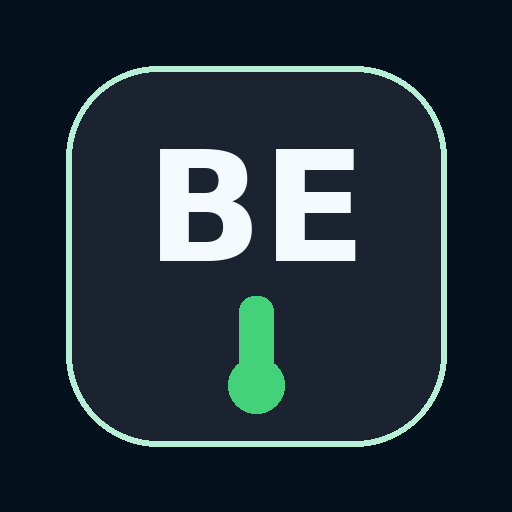
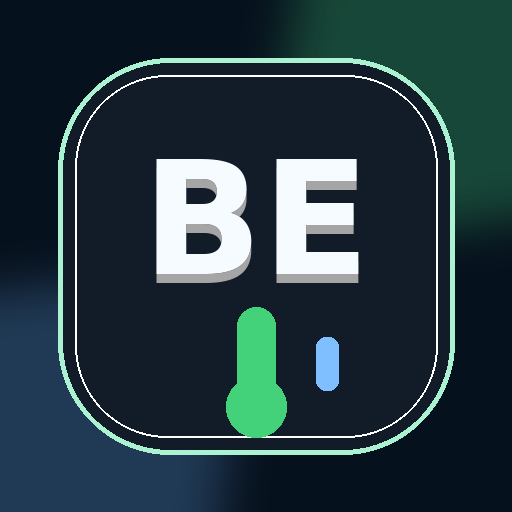
Add files via upload

diff --git a/index.html b/index.html
@@ -11,6 +11,10 @@
   <meta name="apple-mobile-web-app-title" content="Birlikte Eriyoruz" />
   <link rel="manifest" href="manifest.json" />
   <link rel="apple-touch-icon" href="icon-192.png" />
+  <link rel="icon" type="image/png" sizes="192x192" href="icon-192.png" />
+  <link rel="icon" type="image/png" sizes="512x512" href="icon-512.png" />
+  <link rel="apple-touch-icon" sizes="180x180" href="apple-touch-icon.png" />
+
 
   <style>
     * { box-sizing: border-box; }
@@ -2181,12 +2185,80 @@
       margin-bottom: 18px;
     }
 
+
+    .summary-only {
+      display: block;
+    }
+
+    body:not(.summary-active) .summary-only {
+      display: none !important;
+    }
+
+    .metric-card-grid.summary-only {
+      display: grid !important;
+      grid-template-columns: repeat(3, minmax(0, 1fr)) !important;
+      gap: 8px !important;
+      margin-bottom: 14px !important;
+    }
+
+    .metric-card-grid .premium-metric-card {
+      min-height: 112px !important;
+      padding: 12px 9px !important;
+      border-radius: 18px !important;
+    }
+
+    .metric-card-grid .metric-icon {
+      width: 34px !important;
+      height: 34px !important;
+      border-radius: 12px !important;
+      font-size: 18px !important;
+      margin-bottom: 7px !important;
+    }
+
+    .metric-card-grid .premium-metric-label {
+      font-size: 12px !important;
+      line-height: 1.15 !important;
+      margin-bottom: 6px !important;
+    }
+
+    .metric-card-grid .premium-metric-value {
+      font-size: clamp(16px, 4.8vw, 22px) !important;
+      line-height: 1.05 !important;
+      word-break: keep-all;
+    }
+
+    .summary-body-change-card {
+      margin-bottom: 18px;
+    }
+
+    .achievement-collapsible summary {
+      font-size: 20px;
+      font-weight: 900;
+      cursor: pointer;
+    }
+
+    @media (max-width: 430px) {
+      .metric-card-grid.summary-only {
+        grid-template-columns: repeat(3, minmax(0, 1fr)) !important;
+        gap: 7px !important;
+      }
+
+      .metric-card-grid .premium-metric-card {
+        min-height: 106px !important;
+        padding: 10px 7px !important;
+      }
+
+      .metric-card-grid .premium-metric-label {
+        font-size: 11px !important;
+      }
+    }
+
   </style>
 </head>
 
 <body class="summary-active">
 <div class="app">
-    <div class="app-topbar">
+    <div class="app-topbar summary-only">
       <div class="brand-logo top-logo">
         <div class="brand-logo-inner">BE</div>
       </div>
@@ -2230,7 +2302,8 @@
         <div class="premium-metric-value green" id="heroLostChip">--</div>
       </div>
     </div>
-<div class="info-card summary-only summary-body-change-card">
+
+    <div class="info-card summary-only summary-body-change-card">
       <h2>Vücut değişimi</h2>
       <div id="summaryBodyChangeContent"></div>
     </div>
@@ -2776,7 +2849,7 @@
   <div id="nameOverlay" class="name-overlay">
     <div class="name-box">
       <h2>Hoş geldin 👋</h2>
-      <p>Önce seni tanıyalım. Bu bilgilerle hedeflerini, VKİ durumunu ve haftalık takip sistemini hazırlayacağım.</p>
+      <p>Önce seni tanıyalım. Yaş, boy, kilo, cinsiyet ve hedef bilgilerini gir; uygulama sana göre başlasın.</p>
 
       <div class="setup-step-title">Kişisel bilgiler</div>
 
@@ -2885,7 +2958,8 @@
       height: 168,
       age: 30,
       gender: "male",
-      soundEnabled: true
+      soundEnabled: true,
+      setupComplete: false
     };
 
     let settings = {
@@ -3233,7 +3307,8 @@
           weeklyExerciseTarget,
           height,
           age,
-          gender
+          gender,
+          setupComplete: true
         };
 
         records = [];
@@ -3277,7 +3352,15 @@
     }
 
     function checkFirstName() {
-      if (!settings.userName || settings.userName.trim() === "") {
+      const missingSetup =
+        !settings.setupComplete ||
+        !settings.userName ||
+        !settings.age ||
+        !settings.height ||
+        !settings.startWeight ||
+        !settings.targetWeight;
+
+      if (missingSetup) {
         fillSetupDefaults();
         nameOverlay.style.display = "flex";
         setTimeout(() => firstNameInput.focus(), 200);
@@ -4663,7 +4746,7 @@
       const confirmed = confirm("Yeni kullanıcı başlatılsın mı? Tüm ölçüm, fotoğraf, egzersiz ve ayar verileri sıfırlanacak.");
       if (!confirmed) return;
 
-      settings = { ...DEFAULT_SETTINGS };
+      settings = { ...DEFAULT_SETTINGS, setupComplete: false };
       records = [];
       photoRecords = [];
       dailyLogs = [];

diff --git a/service-worker.js b/service-worker.js
@@ -1,16 +1,6 @@
-self.addEventListener("install", (event) => {
-  self.skipWaiting();
-});
-
+self.addEventListener("install", (event) => { self.skipWaiting(); });
 self.addEventListener("activate", (event) => {
-  event.waitUntil(
-    caches.keys().then((keys) =>
-      Promise.all(keys.map((key) => caches.delete(key)))
-    ).then(() => self.registration.unregister())
-  );
+  event.waitUntil(caches.keys().then((keys) => Promise.all(keys.map((key) => caches.delete(key)))).then(() => self.registration.unregister()));
   self.clients.claim();
 });
-
-self.addEventListener("fetch", (event) => {
-  return;
-});
+self.addEventListener("fetch", (event) => { return; });